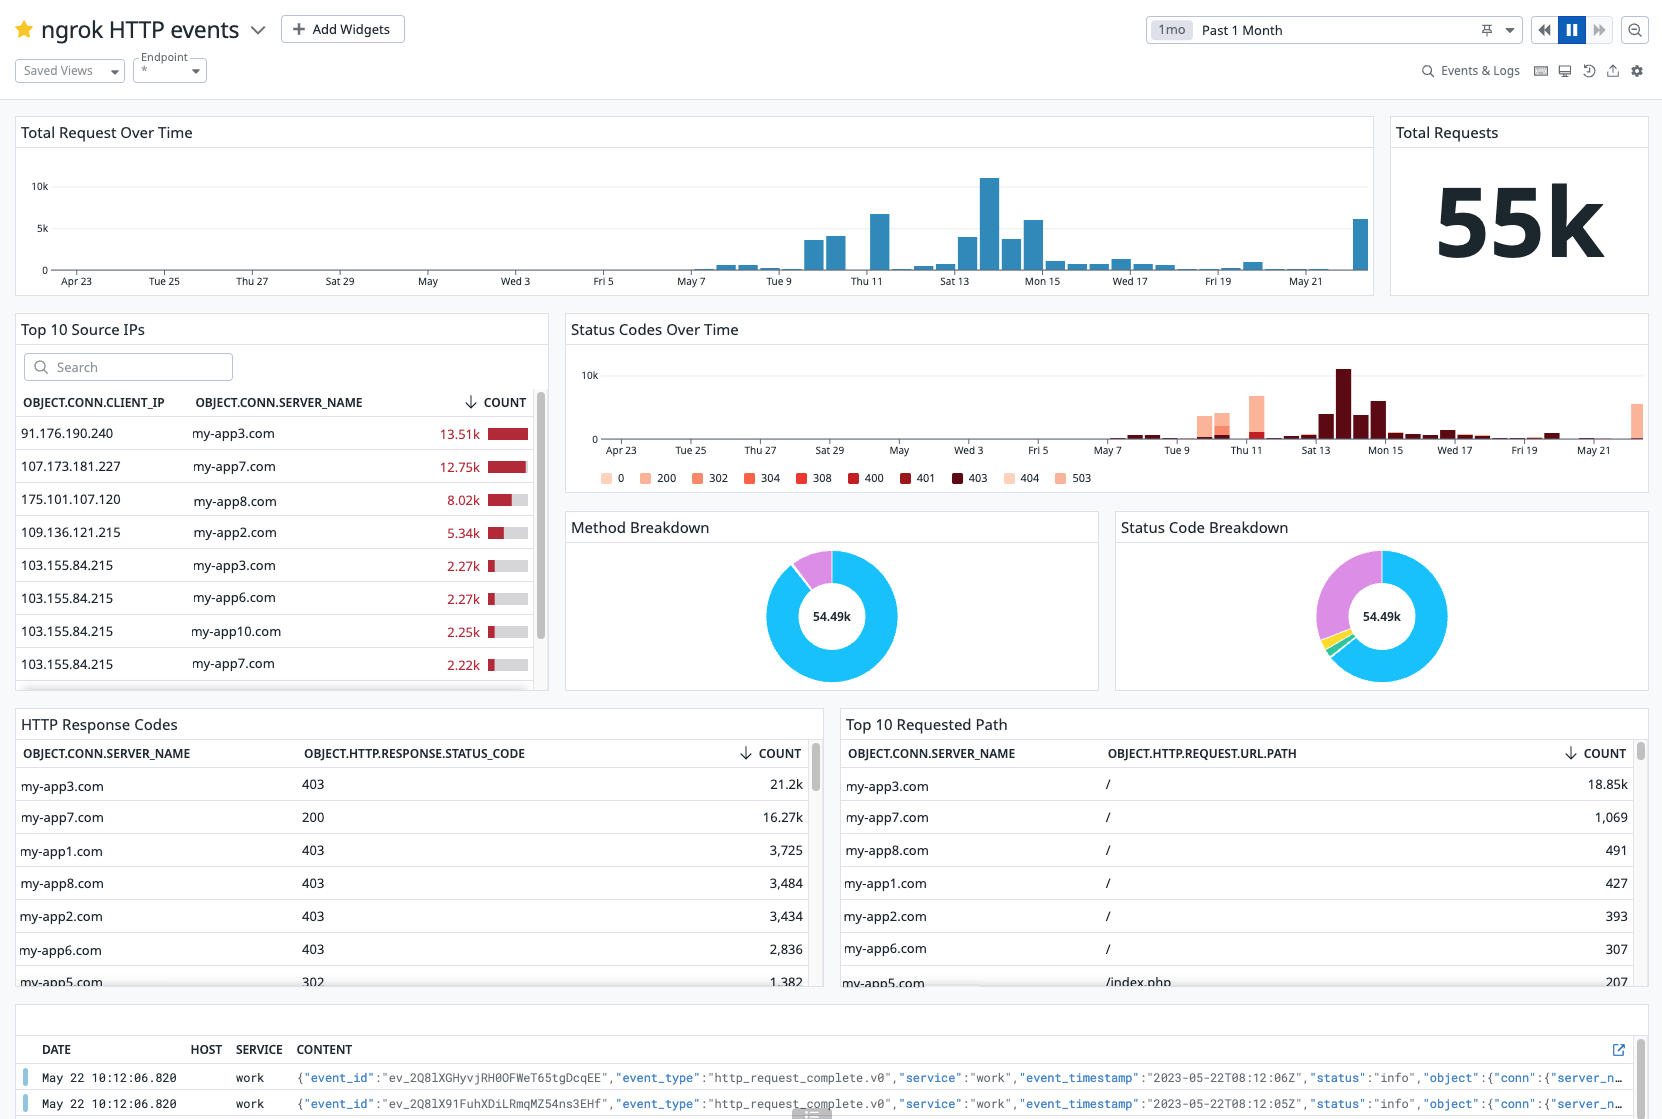
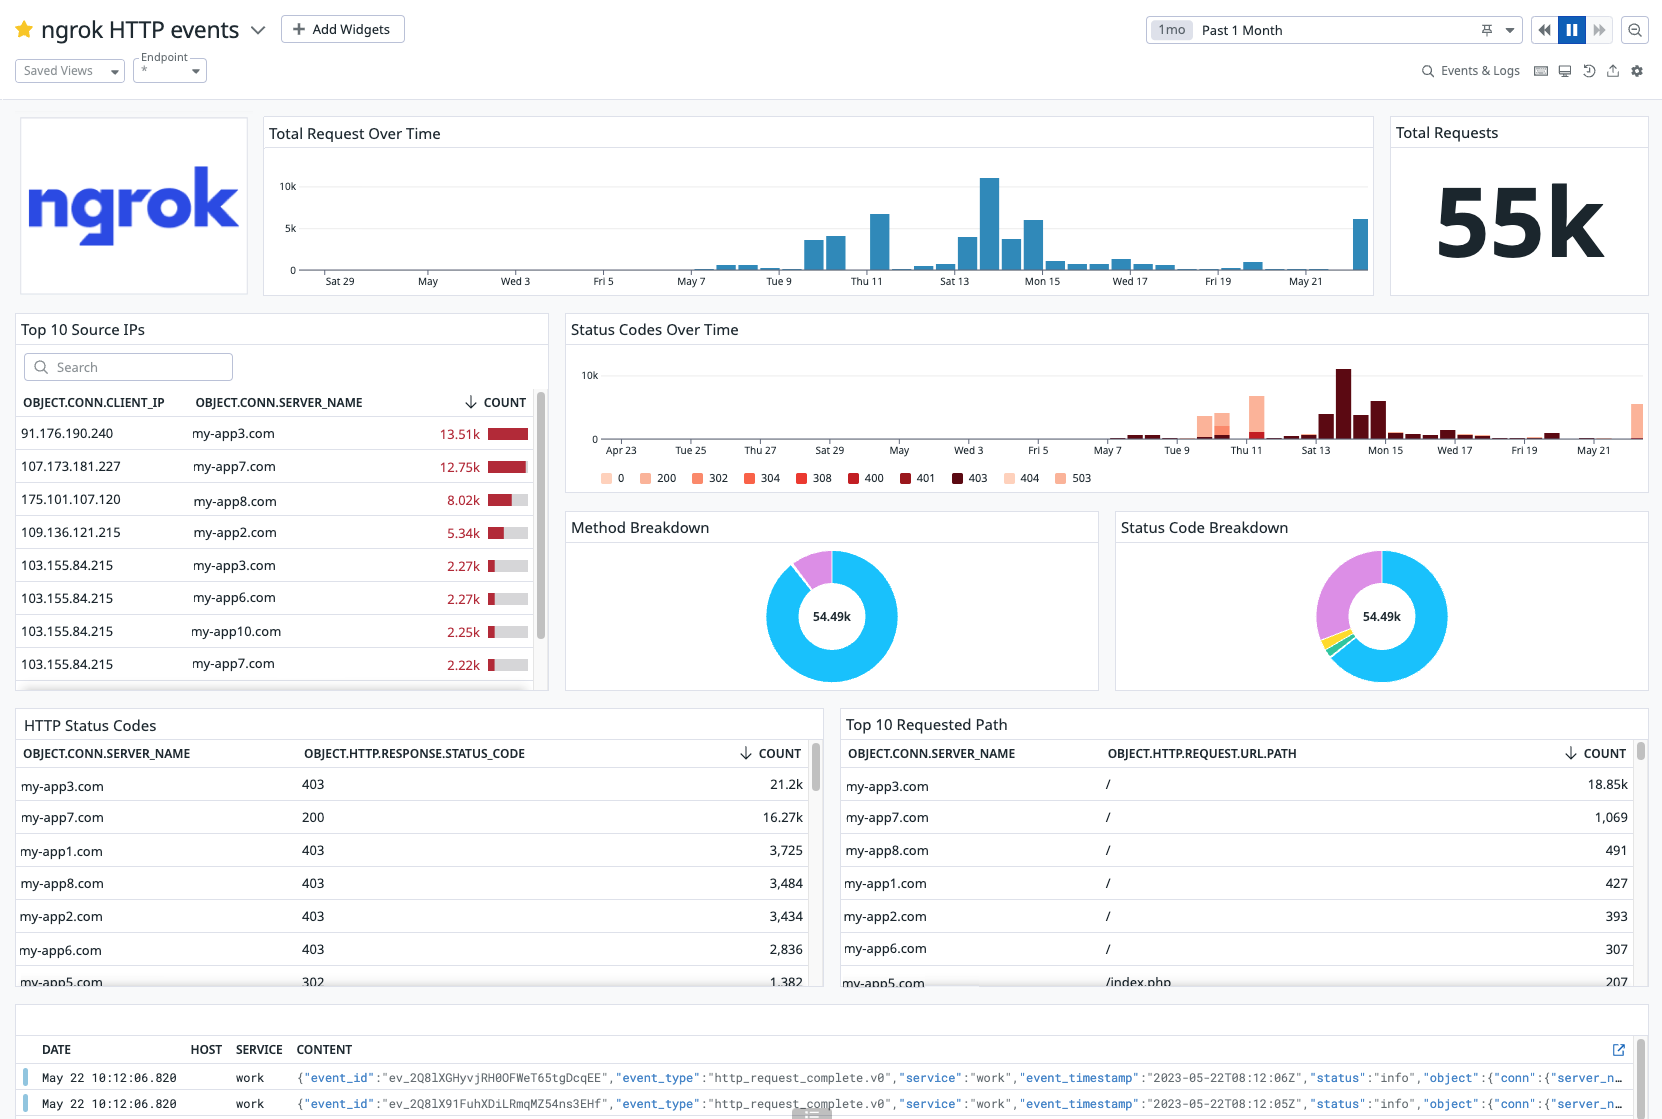
minor changes
- logo added to dashboard
- copy changes to readme.md
- submitted data added to manifest.json
- updated dashboard image to reflect addition of logo

Changed region(s): [[0.0, 0.1519, 0.1534, 0.2735], [0.0, 0.0912, 0.1227, 0.1215], [0.0, 0.6381, 0.0921, 0.6685]]

diff --git a/ngrok/README.md b/ngrok/README.md
@@ -2,7 +2,7 @@
 
 ngrok delivers instant ingress to your applications in any cloud, private network, or devices with authentication, load balancing, and other critical controls using our global points of presence.
 
-The ngrok platform includes a Datadog event destination integration. With ngrok HTTP events, you can visualize valuable application insights using Datadog Log Management. You can use the Datadog HTTPS logging endpoint to set up the integration on the [ngrok dashboard UI][2].
+The ngrok platform includes a Datadog event destination integration. With ngrok HTTP events, you can visualize valuable application insights using Datadog Log Management including HTTP status code breakdown, top client IPs and most requested resources. You can use the Datadog HTTPS logging endpoint to set up the integration on the [ngrok dashboard UI][2].
 
 
 
